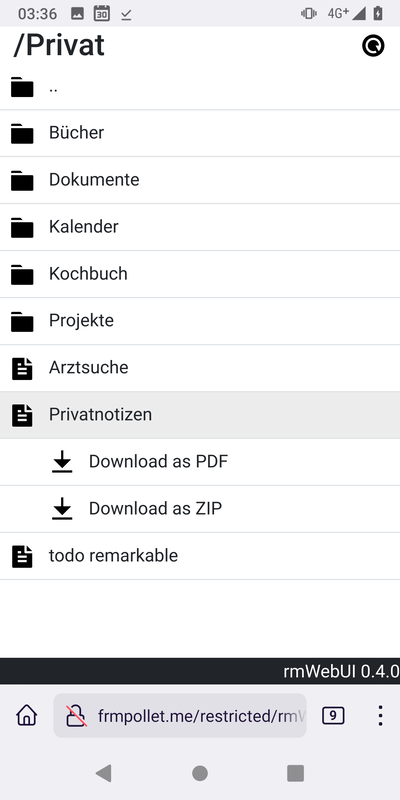
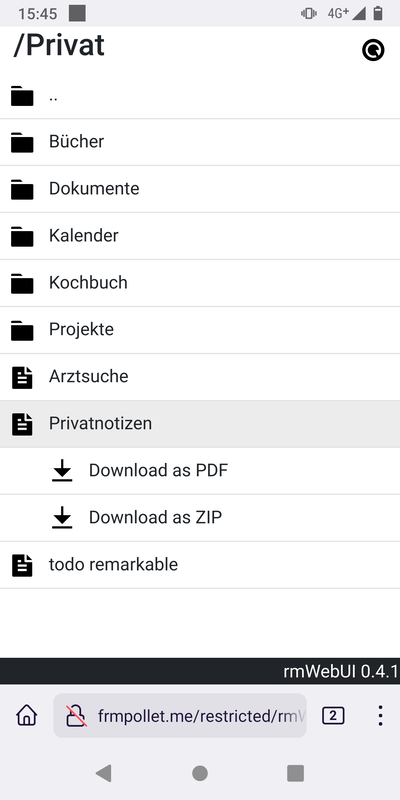
minor changes in UI appearence

diff --git a/frontend/rmWebUI.js b/frontend/rmWebUI.js
@@ -35,18 +35,22 @@ class rmWebUI {
             switch(this.filesApiResponse["errorType"]) {
             case "load-token":
                 this.showPage("register");
+                this.setTitle();
                 break;
             case "init-api":
                 this.showError("Unable to connect to the cloud! You may try to register again.", this.filesApiResponse["error"]);
                 this.showPage("register");
+                this.setTitle();
                 break;
             case "retrieve-files":
                 this.showError("Unable to retrieve file list from the cloud!", this.filesApiResponse["error"]);
                 this.showPage(""); // hide all pages
+                this.setTitle();
                 break;
             default:
                 this.showError("Unknown error (" + this.filesApiResponse["errorType"] + ")", this.filesApiResponse["error"]);
                 this.showPage(""); // hide all pages
+                this.setTitle();
             }
         } else {
             this.pages.list.buildFileTable();
@@ -55,15 +59,31 @@ class rmWebUI {
     }
 
     /**
+     * Set title
+     *
+     * @param path Path to display or false for standard title
+     */
+    setTitle(path = false) {
+        if(path == false) {
+            document.getElementById('title-text').innerHTML = this.config.name + "&nbsp;" + this.config.version;
+        } else {
+            document.getElementById('title-text').innerHTML = path;
+        }
+    }
+
+    /**
      * Show/Hide an element
      *
      * @param id ID
      * @param visible Visibility
+     * @return previous visibility
      */
     show(id, visible) {
         const cl = document.getElementById(id).classList;
+        const prev = !cl.contains('d-none');
         if(cl.contains('d-none') && visible == true) cl.remove('d-none');
         else if(!cl.contains('d-none') && visible == false) cl.add('d-none');
+        return prev;
     }
 
     /**
@@ -102,10 +122,12 @@ class rmWebUI {
         httpRequest.responseType = "arraybuffer";
         httpRequest.send();
         this.show('loading-spinner', true);
+        const refreshBtnPrev = this.show('refresh-button', false);
         const ui = this;
         httpRequest.addEventListener("error", function() {
             ui.showError("Cannot contact backend", "XMLHttpRequest error.");
             ui.show('loading-spinner', false);
+            ui.show('refresh-button', refreshBtnPrev);
             finallyHandler();
         });
         httpRequest.addEventListener("readystatechange", function() {
@@ -118,6 +140,7 @@ class rmWebUI {
                     handler(this.response);
                 }
                 ui.show('loading-spinner', false);
+                ui.show('refresh-button', refreshBtnPrev);
                 finallyHandler();
             }
         });

diff --git a/frontend/pages/list.js b/frontend/pages/list.js
@@ -45,7 +45,7 @@ class rmWebUIList {
         }
 
         // update page
-        document.getElementById('title-text').innerHTML = thisEntry ? thisEntry.Path : "/";
+        this.ui.setTitle(thisEntry ? thisEntry.Path : "/");
         this.ui.show('refresh-button', true);
         this.ui.show('error-banner', false);
         document.getElementById('files-table').innerHTML = html;

diff --git a/index.php b/index.php
@@ -19,7 +19,7 @@ if(Config::MODE === "debug") {
 ?><!DOCTYPE html>
 <html xmlns="http://www.w3.org/1999/xhtml" lang="en">
   <head>
-    <title><?php echo Config::NAME." ".Config::VERSION ?></title>
+    <title><?php echo Config::NAME."&nbsp;".Config::VERSION ?></title>
     <meta charset="utf-8">
     <meta name="viewport" content="width=device-width, initial-scale=1">
     <link id="favicon" rel="icon" type="image/svg+xml" href="frontend/resources/cloud.svg">
@@ -33,18 +33,16 @@ if(Config::MODE === "debug") {
 
       <!-- title -->
       <div class="row">
-        <div class="col">
-          <span class="h1" id="title-text"><?php echo Config::NAME." ".Config::VERSION ?></span>&nbsp;&nbsp;
-          <span id="loading-spinner" class="spinner-border" role="status"></span>
-        </div>
-        <div id="refresh-button" class="col col-sm-1 d-flex align-items-center justify-content-end d-none">
-          <a href="#" onclick="app.getFiles();"><?php require __DIR__ . "/frontend/resources/refresh.svg" ?></a>
+        <div class="col h1" id="title-text"><?php echo Config::NAME."&nbsp;".Config::VERSION ?></div>
+        <div class="col col-sm-1 d-flex align-items-center justify-content-end">
+          <span id="loading-spinner" class="spinner-border" style="width: 24px; height: 24px;" role="status"></span>
+          <a id="refresh-button" class="d-none" href="#" onclick="app.getFiles();"><?php require __DIR__ . "/frontend/resources/refresh.svg" ?></a>
         </div>
       </div>
 
       <!-- error banner -->
-      <div id="error-banner" class="alert alert-danger d-none" role="alert">
-        <span id="error-text"></span>&nbsp;<a href="#" data-bs-toggle="collapse" data-bs-target="#extended-error">(Details)</a>
+      <div id="error-banner" class="alert alert-dark d-none" role="alert">
+        <span id="error-text"></span>&nbsp;<a class="alert-link" href="#" data-bs-toggle="collapse" data-bs-target="#extended-error">(Details)</a>
         <div class="collapse" id="extended-error"><br/><span id="extended-error-text"></span></div>
       </div>
 
@@ -54,7 +52,7 @@ if(Config::MODE === "debug") {
 
       <!-- footer -->
       <div class="row bg-dark fixed-bottom text-white">
-        <div class="col text-end"><?php echo Config::NAME." ".Config::VERSION ?></div>
+        <div class="col text-end"><?php echo Config::NAME."&nbsp;".Config::VERSION ?></div>
       </div>
     </div>
     <!-- Icons -->

diff --git a/frontend/pages/register.php b/frontend/pages/register.php
@@ -8,7 +8,7 @@
   --------------------------------------------------- -->
 <div class="row">
   <div class="col">
-    <p>The application is not yet registered. Login to <a href="https://my.remarkable.com" target="_blank">the reMarkable&reg; cloud</a> and retrieve a one-time code from <a href="https://my.remarkable.com/device/desktop/connect" target="_blank">this address</a> (the code is valid for 5 minutes):</p>
+    <p>The application is not yet registered. Login to <a class="link-dark" href="https://my.remarkable.com" target="_blank">the reMarkable&reg; cloud</a> and retrieve a one-time code from <a href="https://my.remarkable.com/device/desktop/connect" target="_blank" class="link-dark">this address</a> (the code is valid for 5 minutes):</p>
   </div>
 </div>
 <div class="row g-3 align-items-center">
@@ -19,7 +19,7 @@
     <input type="text" id="code" class="form-control"></input>
   </div>
   <div class="col-auto">
-    <button type="submit" class="btn btn-primary" onclick="app.pages.register.registerApp();" id="register-btn">Register</button>
+    <button type="submit" class="btn btn-dark" onclick="app.pages.register.registerApp();" id="register-btn">Register</button>
   </div>
 </div>
 <script><?php require_once __DIR__."/register.js" ?></script>

diff --git a/config/config.php b/config/config.php
@@ -19,7 +19,7 @@ class Config {
     /**
      * Version
      */
-    const VERSION = "0.4.0";
+    const VERSION = "0.4.1";
 
     /**
      * Mode: "debug" or "prod"

diff --git a/CHANGELOG.md b/CHANGELOG.md
@@ -6,7 +6,14 @@ The format is based on [Keep a Changelog](https://keepachangelog.com/en/1.0.0/).
 ## [develop]
 ### Added
 
-## [0.4.0] - 2022-01-03
+## [0.4.1] - 2022-01-02
+### Added
+- Minor changes in interface:
+  - More consistent colors (bootstrap5 dark theme)
+  - refresh-button and loading-spinner at the same position
+- Minor fix: uncaught exception when PDF is disabled - fixed
+
+## [0.4.0] - 2022-01-02
 ### Added
 - Refactoring:
   - Backend in PHP: cloud API, cache and PDF conversion
@@ -30,7 +37,8 @@ The format is based on [Keep a Changelog](https://keepachangelog.com/en/1.0.0/).
 ### Added
 - First version
 
-[develop]: https://github.com/polletfa/rmWebUI/compare/0.4.0...develop
+[develop]: https://github.com/polletfa/rmWebUI/compare/0.4.1...develop
+[0.4.1]: https://github.com/polletfa/rmWebUI/compare/0.4.0...0.4.1
 [0.4.0]: https://github.com/polletfa/rmWebUI/compare/0.3.0...0.4.0
 [0.3.0]: https://github.com/polletfa/rmWebUI/compare/0.2.0...0.3.0
 [0.2.0]: https://github.com/polletfa/rmWebUI/compare/0.1.0...0.2.0

diff --git a/README.md b/README.md
@@ -1,6 +1,13 @@
 # rmWebUI
 
-rmWebUI is a simple web interface for the reMarkable&reg; cloud.
+rmWebUI is a simple web interface for the reMarkable&reg; cloud designed primarily for small screens. It includes the following features:
+
+- Register application
+- Browse collections
+- Refresh collections
+- Download a document as ZIP (original data)
+- Download a document as PDF (convert using [rmrl](https://github.com/rschroll/rmrl))
+- Cache downloaded files based on version. Download from the cloud only as needed.
 
 ![register](./screenshots/register.png)
 ![list](./screenshots/list.png)
